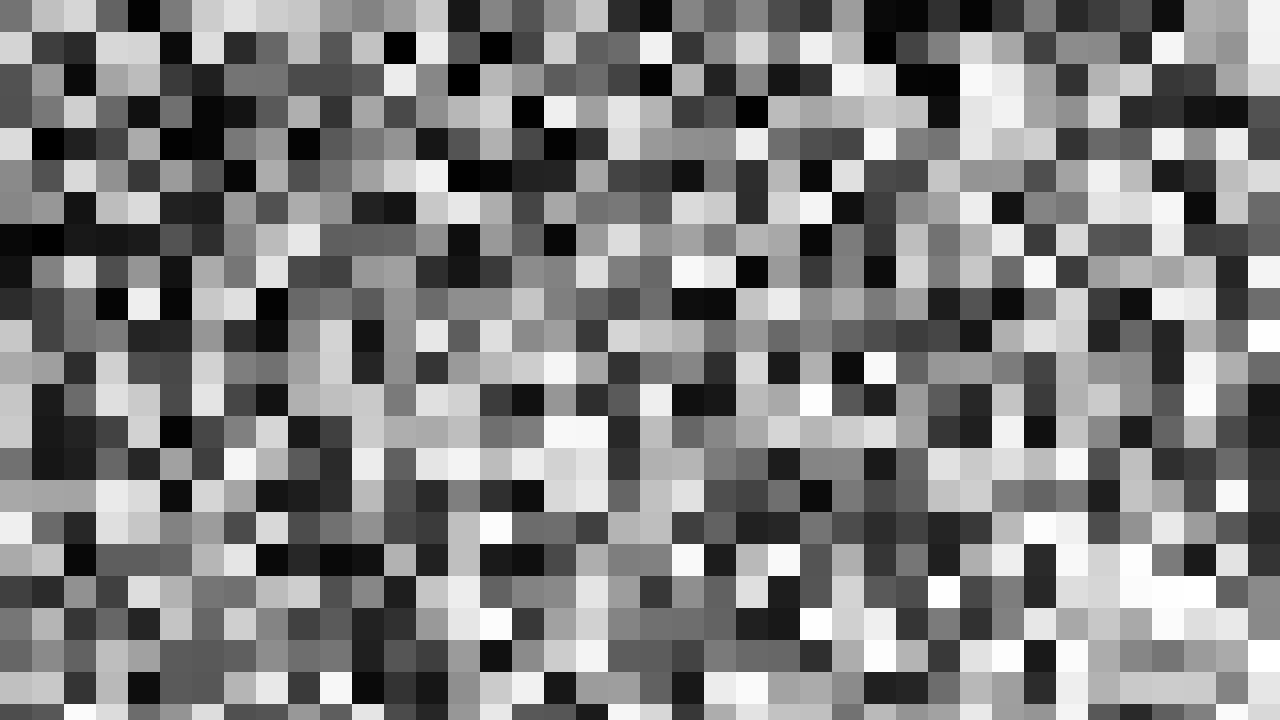
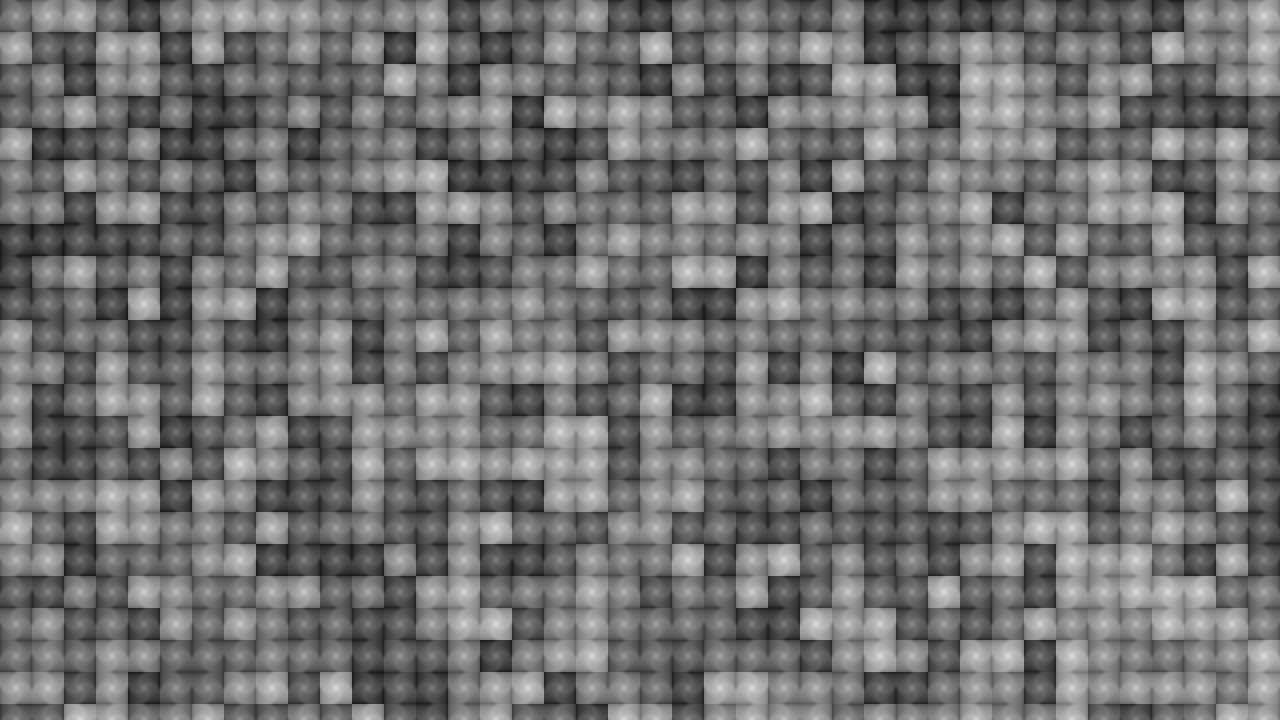
Bake transition shape into mask texture

diff --git a/src/phaser/sceneTransition.ts b/src/phaser/sceneTransition.ts
@@ -5,7 +5,6 @@ const TRANSITION_SOURCE_MASK_TEXTURE = 'transition-source-mask';
 const TRANSITION_SOURCE_MASK_PATH = '/assets/fx/transition-mask.png';
 const TRANSITION_DEPTH = 100000;
 const TRANSITION_DURATION_MS = 980;
-const TILE_SIZE = 32;
 
 const transitionFragmentShader = `
 precision mediump float;
@@ -16,32 +15,11 @@ uniform float progress;
 
 varying vec2 fragCoord;
 
-float easeInOutCubic(float value) {
-  return value < 0.5
-    ? 4.0 * value * value * value
-    : 1.0 - pow(-2.0 * value + 2.0, 3.0) * 0.5;
-}
-
 void main() {
   vec2 uv = fragCoord / resolution.xy;
-  float revealAt = texture2D(iChannel0, uv).r;
-  float localProgress = clamp((progress - revealAt * 0.42) / 0.58, 0.0, 1.0);
-  float eased = easeInOutCubic(localProgress);
-  float squareScale = 1.0 - eased;
-
-  vec2 tile = vec2(${TILE_SIZE.toFixed(1)});
-  vec2 cell = floor(gl_FragCoord.xy / tile);
-  vec2 center = (cell + vec2(0.5)) * tile;
-  vec2 delta = gl_FragCoord.xy - center;
-  float direction = mod(cell.x + cell.y, 2.0) < 1.0 ? 1.0 : -1.0;
-  float angle = 2.2619467 * eased * direction;
-  float c = cos(angle);
-  float s = sin(angle);
-  vec2 local = vec2(delta.x * c + delta.y * s, -delta.x * s + delta.y * c);
-  float halfSize = tile.x * 0.5 * squareScale;
-  float inside = step(abs(local.x), halfSize) * step(abs(local.y), halfSize);
-
-  gl_FragColor = vec4(0.0, 0.0, 0.0, inside);
+  float disappearAt = texture2D(iChannel0, uv).r;
+  float visible = 1.0 - step(disappearAt, progress);
+  gl_FragColor = vec4(0.0, 0.0, 0.0, visible);
 }`;
 
 export function preloadTransitionTexture(scene: Phaser.Scene): void {

diff --git a/README.md b/README.md
@@ -56,4 +56,4 @@ Maps must have equal row widths, a closed wall perimeter, exactly one of each ch
 
 ## Transition texture
 
-The scene transition uses `public/assets/fx/transition-mask.png` as a grayscale 0..1 transition mask. Each 32px grid cell stores a hard, uniform reveal-order value. At runtime a Phaser Shader Game Object samples that mask from `iChannel0`; the CPU only animates a single `progress` uniform from 0 to 1.
+The scene transition uses `public/assets/fx/transition-mask.png` as a grayscale 0..1 transition mask. The texture stores the disappearance time for each pixel, including the grid-square rotate/shrink shape. At runtime a Phaser Shader Game Object samples that mask from `iChannel0`; the CPU only animates a single `progress` uniform from 0 to 1.